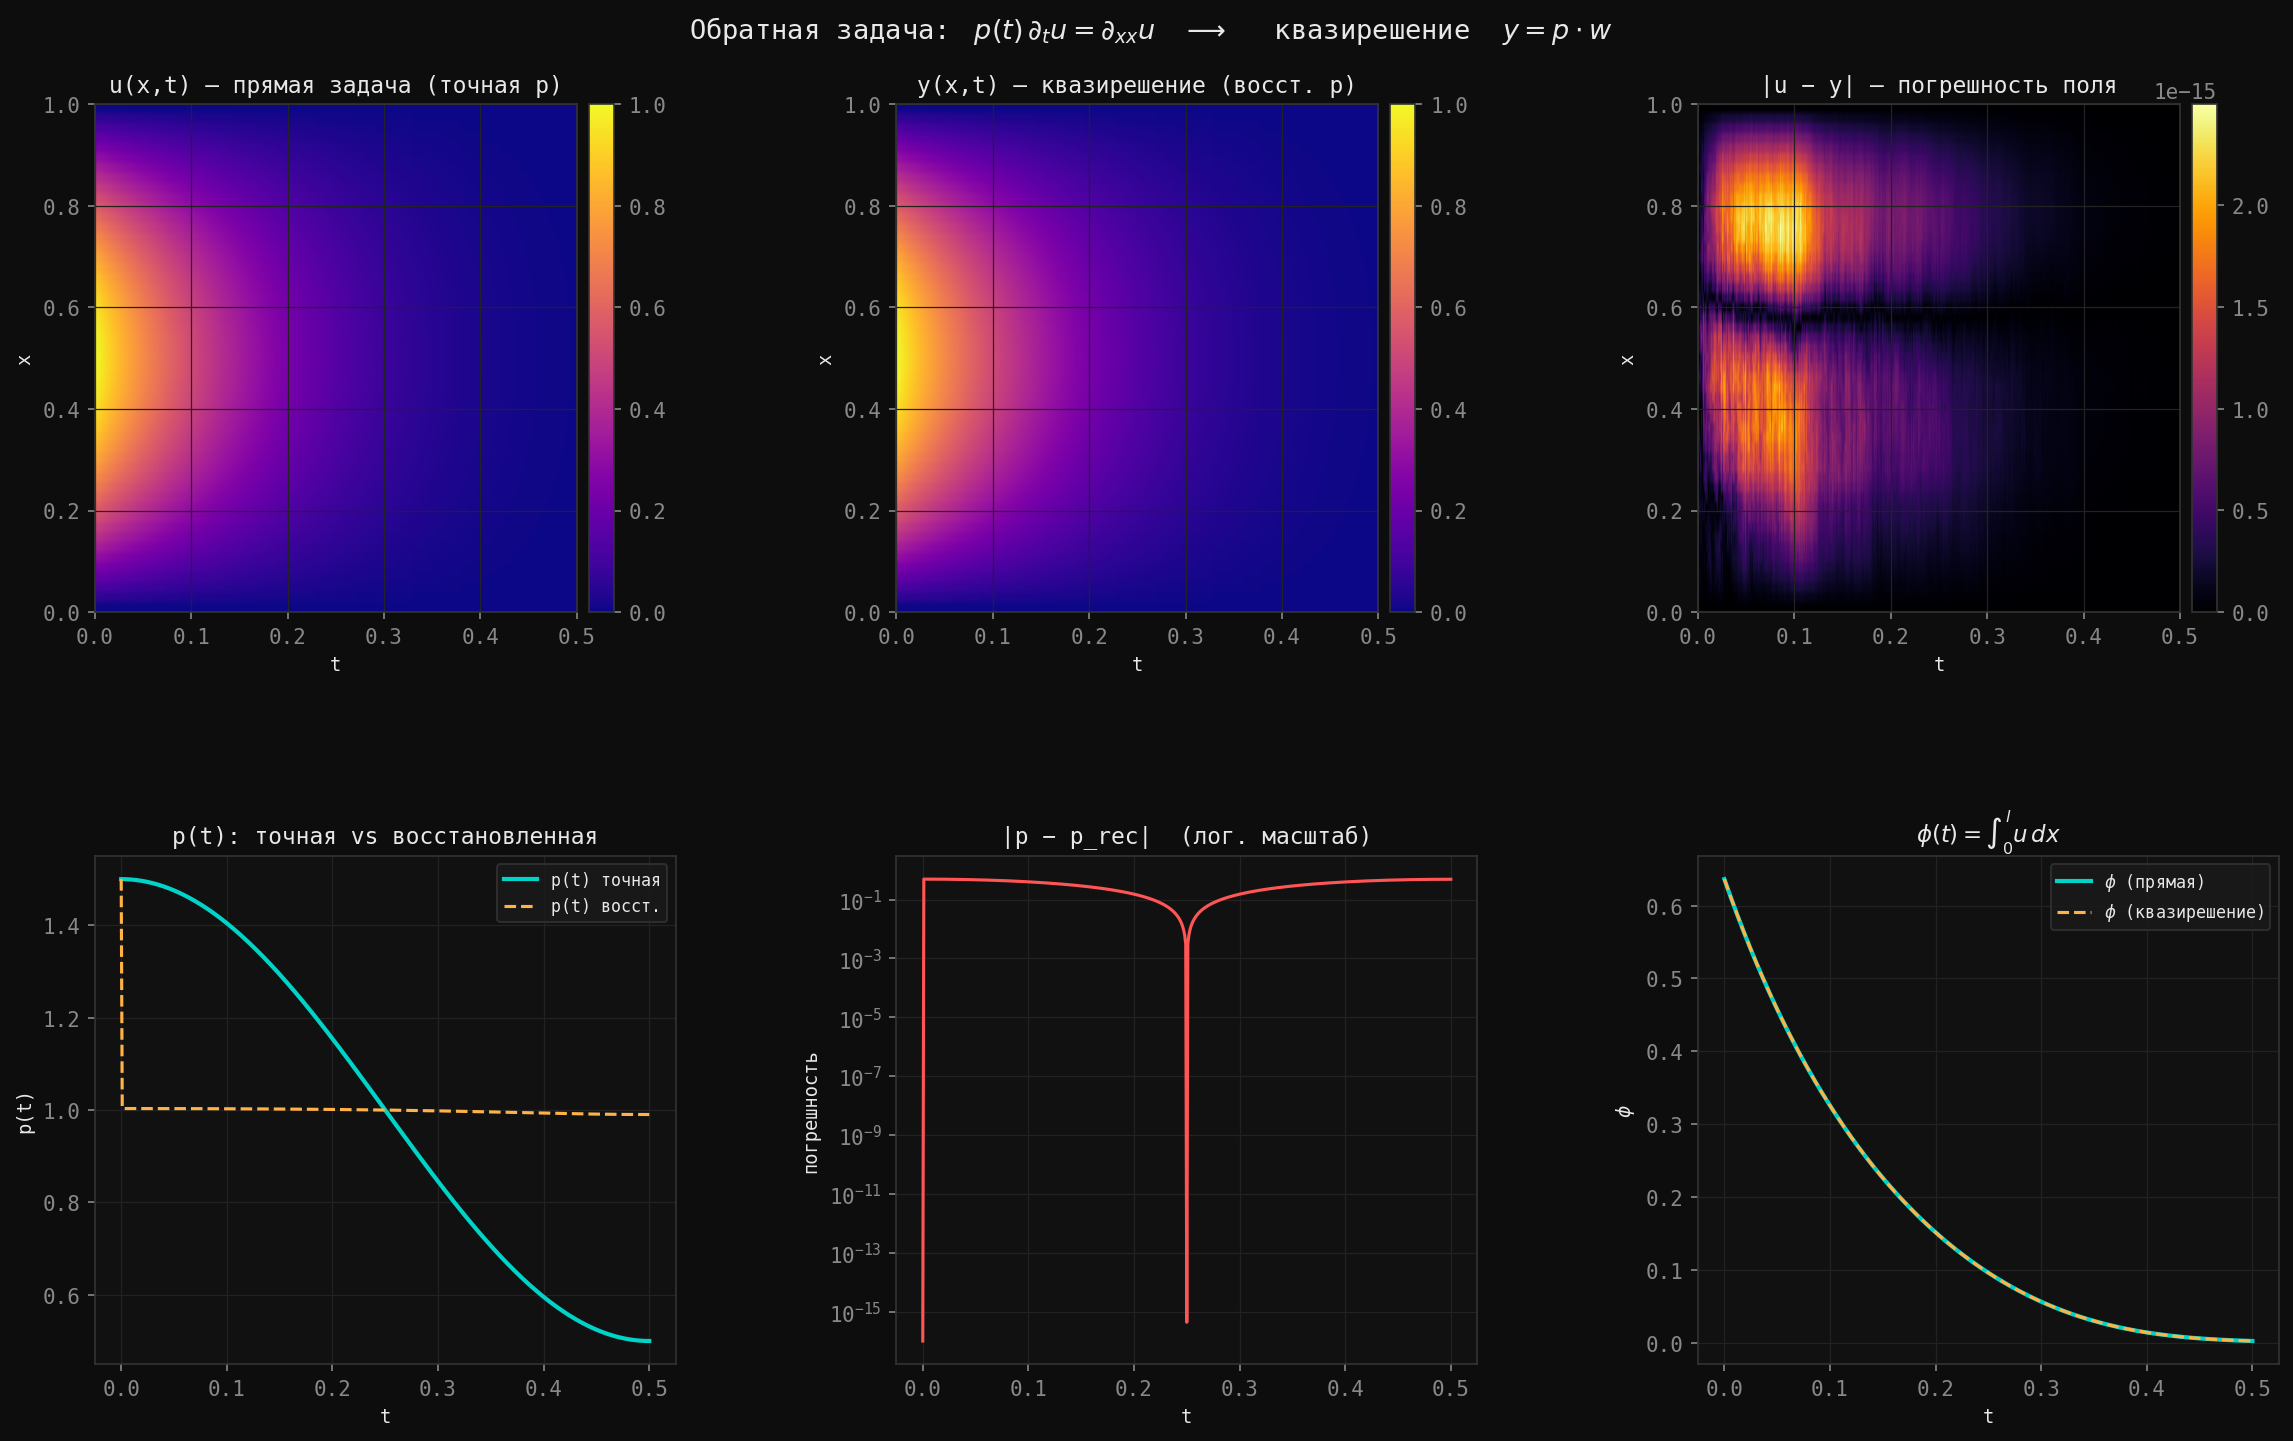
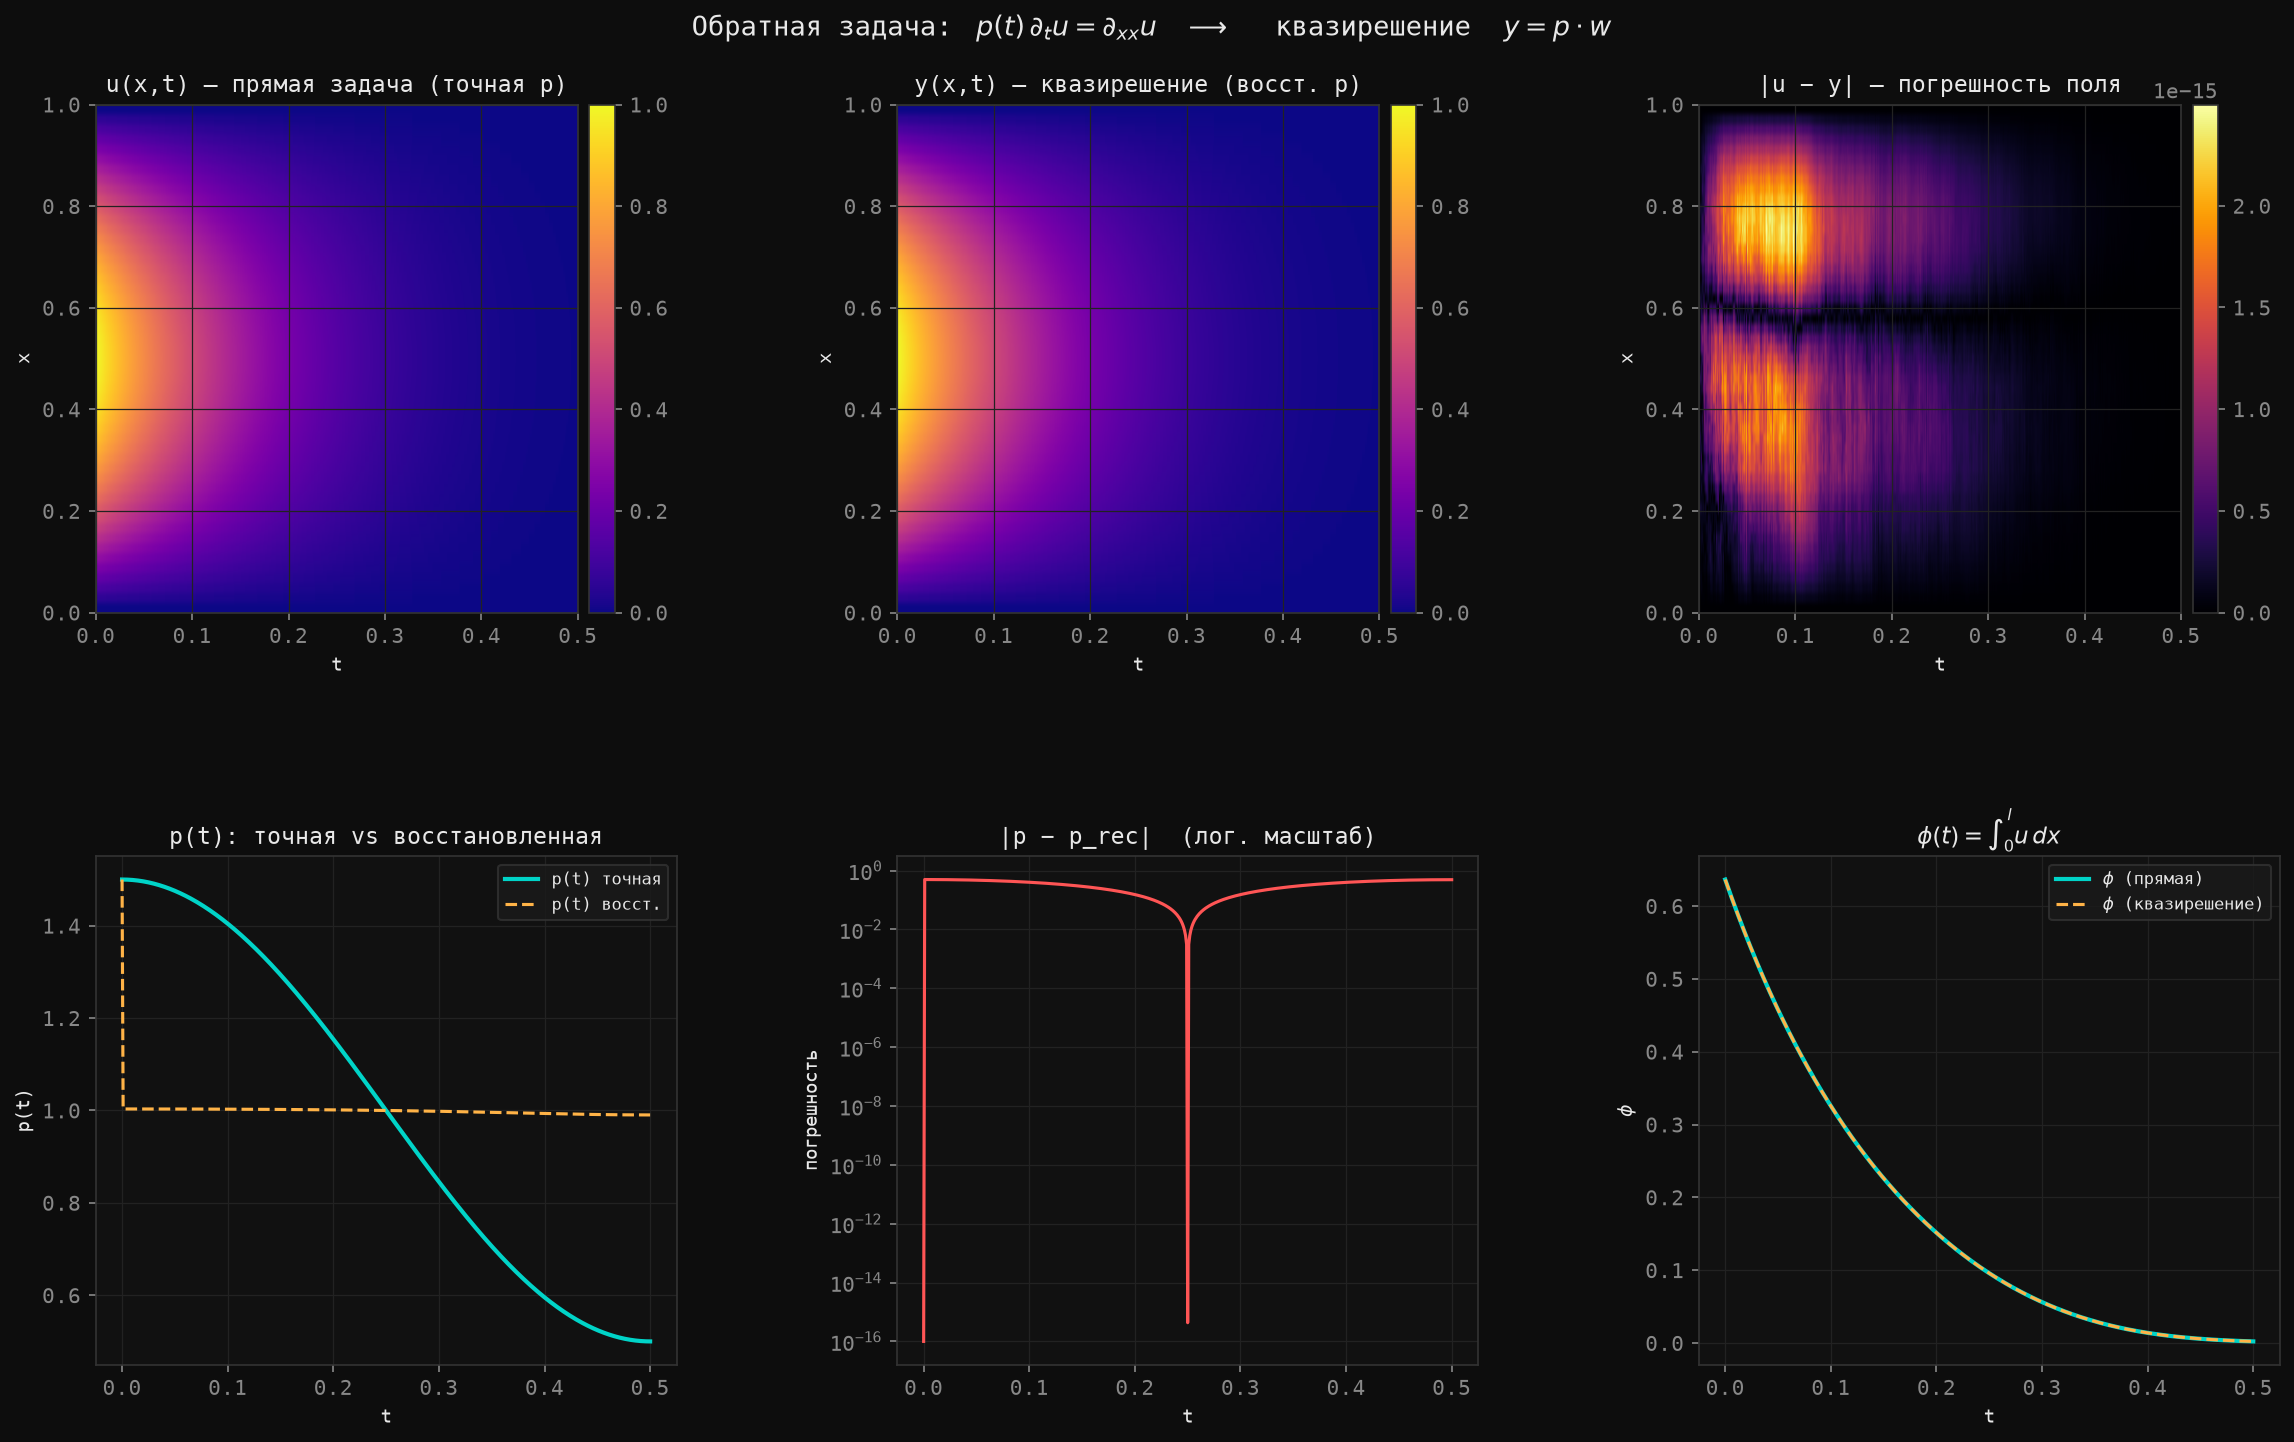
chore: update .gitignore, migrate files, and clean up egg-info directory

diff --git a/labs/master/lab03/lab3.py b/labs/master/lab03/lab3.py
@@ -144,6 +144,6 @@ plt.savefig(OUTPUT_DIR / "inverse_problem_laba3.png",
             dpi=150, bbox_inches="tight", facecolor=fig.get_facecolor())
 plt.show()
 
-print(f"‖p − p_rec‖_∞  = {np.max(np.abs(p_exact - p_rec)):.3e}")
-print(f"‖u − y‖_∞      = {np.max(np.abs(u - y)):.3e}")
-print(f"‖φ_u − φ_y‖_∞  = {np.max(np.abs(phi - phi_y)):.3e}")
+print(f"max|p - p_rec|  = {np.max(np.abs(p_exact - p_rec)):.3e}")
+print(f"max|u - y|      = {np.max(np.abs(u - y)):.3e}")
+print(f"max|phi_u - phi_y| = {np.max(np.abs(phi - phi_y)):.3e}")

diff --git a/docs/migration-matrix.md b/docs/migration-matrix.md
@@ -13,6 +13,7 @@
 | empty `practika.ipynb` | `archive/legacy/invalid-notebooks` | invalid historical notebook | move | Сохранить пустой исторический файл отдельно от проверяемых notebooks. |
 | `gif_to_png.py` | `scripts/gif_to_png.py` | utility | move/update | Утилита не относится к конкретной лаборатории. |
 | `jitfailure-*`, `__pycache__`, `*.pyc` | — | generated cache | delete | Воспроизводимые служебные файлы не являются исходными материалами. |
+| `src/inverse_problems.egg-info` | — | generated package metadata | delete | Метаданные пересоздаются при установке пакета и не являются исходным кодом. |
 | identical copies in `lab04`/`lab08` | — | duplicate | delete | Удалены только подтверждённые хешем дубликаты. |
 
 Git-индекс в среде разработки доступен только для чтения, поэтому физические
